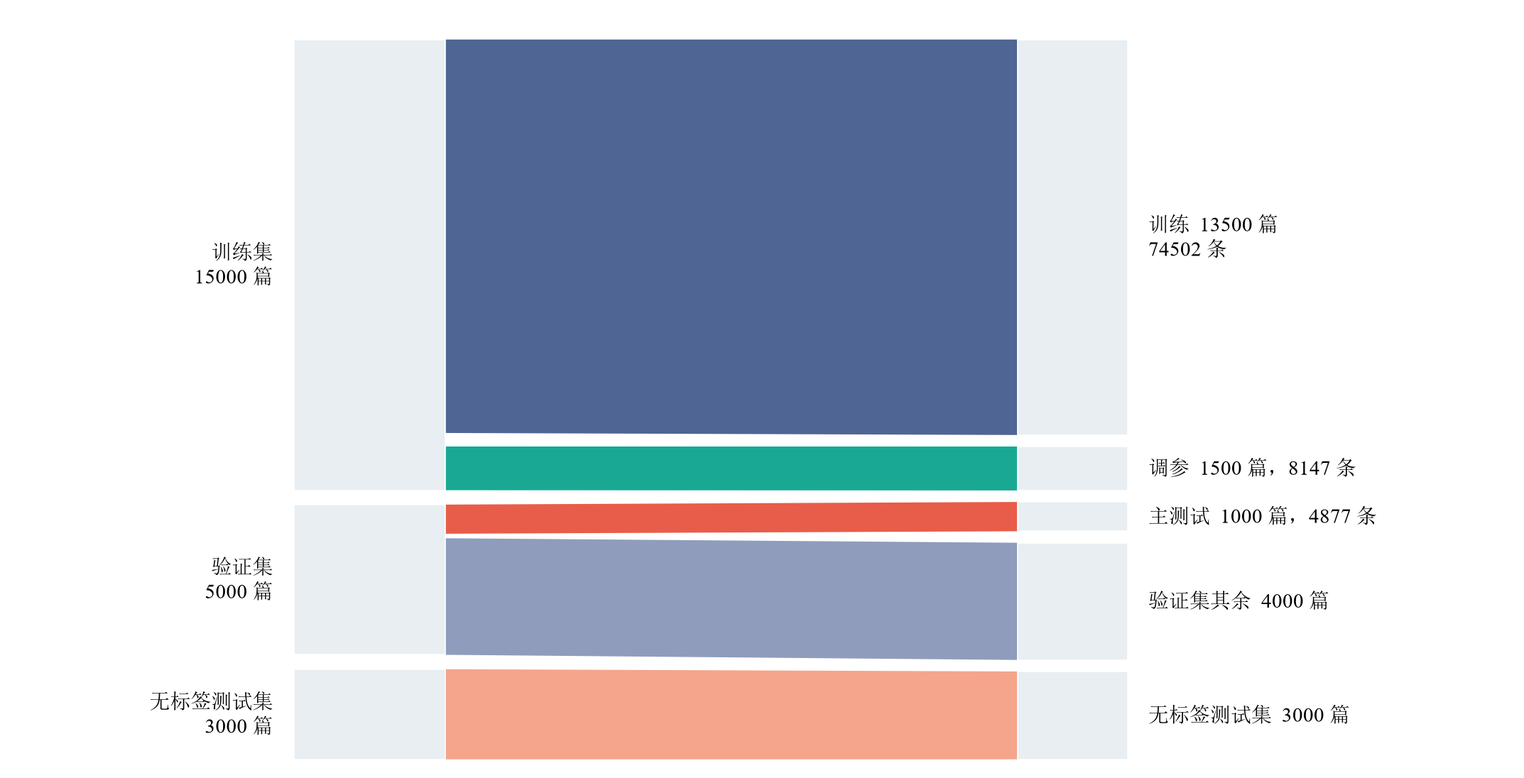
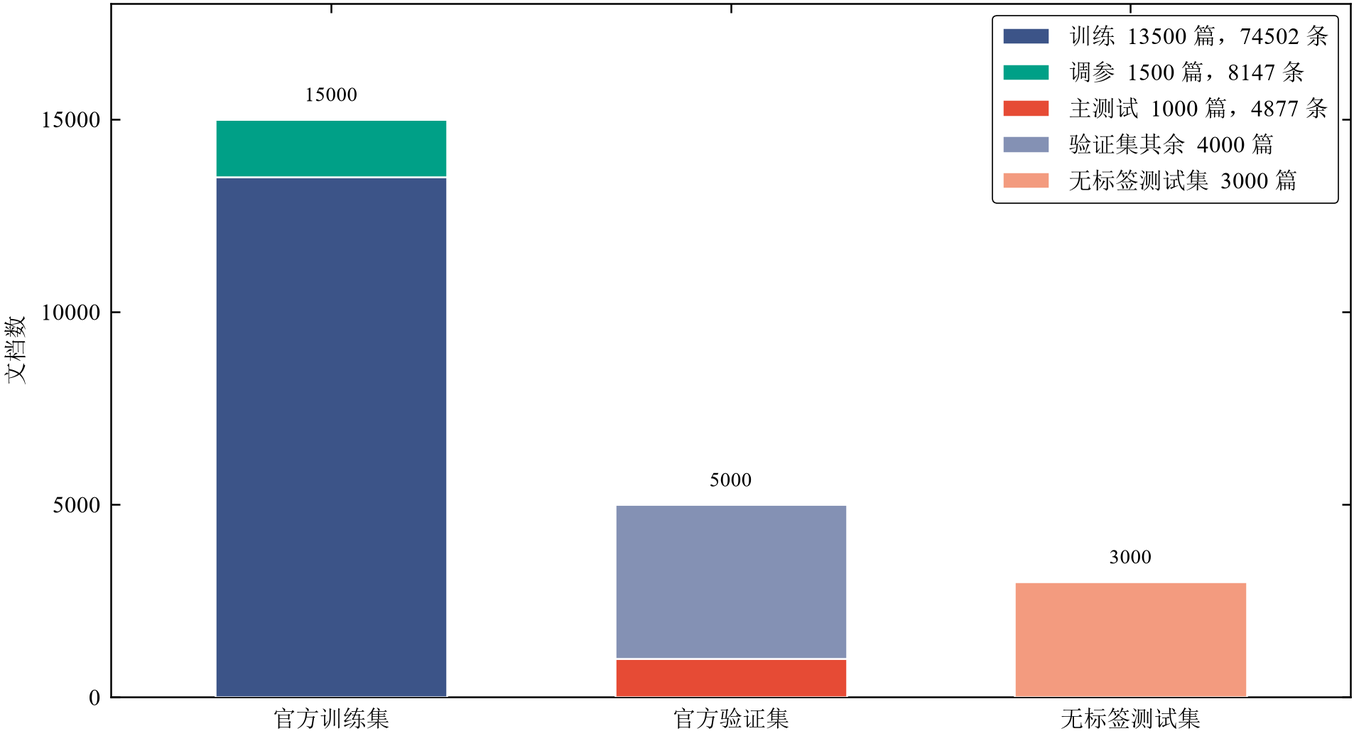
补全报告中的方案对比和错误归因，并把两张插图改成柱状图。

diff --git a/scripts/plot_report_figures.py b/scripts/plot_report_figures.py
@@ -274,54 +274,10 @@ def add_log_colorbar(fig, image, ax) -> None:
     colorbar.set_label("计数", fontsize=8)
 
 
-def ribbon(ax, x0: float, band0: tuple[float, float], x1: float, band1: tuple[float, float], color: str) -> None:
-    y0b, y0t = band0
-    y1b, y1t = band1
-    step = np.linspace(0, 1, 60)
-    smooth = step * step * (3 - 2 * step)
-    xs = x0 + (x1 - x0) * smooth
-    top = y0t + (y1t - y0t) * smooth
-    bottom = y0b + (y1b - y0b) * smooth
-    ax.fill(
-        np.concatenate([xs, xs[::-1]]),
-        np.concatenate([top, bottom[::-1]]),
-        color=color,
-        alpha=0.9,
-        linewidth=0,
-        zorder=2,
-    )
-
-
-def stack_bands(sizes: list[int], top: float = 1.0, gap: float = 0.02) -> list[tuple[float, float]]:
-    usable = top - gap * (len(sizes) - 1)
-    scale = usable / sum(sizes)
-    cursor = top
-    bands = []
-    for size in sizes:
-        height = size * scale
-        bands.append((cursor - height, cursor))
-        cursor -= height + gap
-    return bands
-
-
-def split_band(band: tuple[float, float], sizes: list[int]) -> list[tuple[float, float]]:
-    bottom, top = band
-    if len(sizes) == 1:
-        return [band]
-    gap = (top - bottom) * 0.03 / (len(sizes) - 1)
-    usable = (top - bottom) - gap * (len(sizes) - 1)
-    cursor = top
-    parts = []
-    for size in sizes:
-        height = usable * size / sum(sizes)
-        parts.append((cursor - height, cursor))
-        cursor -= height + gap
-    return parts
-
-
 def fig_split_scale(summary: dict, profile: dict) -> None:
-    fig = new_figure((7.2, 3.7))
+    fig = new_figure((6.4, 3.5))
     ax = fig.subplots()
+    style_ax(ax)
     official = summary["files"]
     train_docs = official["CMeEE-V2_train.json"]["docs"]
     dev_docs = official["CMeEE-V2_dev.json"]["docs"]
@@ -329,51 +285,40 @@ def fig_split_scale(summary: dict, profile: dict) -> None:
     project_docs = {key: profile["sizes"][f"{key}_indices"] for key in ("train", "tune", "test")}
     project_entities = {key: profile["splits"][key]["entities"] for key in ("train", "tune", "test")}
     dev_rest = dev_docs - project_docs["test"]
-    left = stack_bands([train_docs, dev_docs, test_docs])
-    right = stack_bands(
-        [project_docs["train"], project_docs["tune"], project_docs["test"], dev_rest, test_docs],
-        gap=0.016,
-    )
-    left_parts = [
-        split_band(left[0], [project_docs["train"], project_docs["tune"]]),
-        split_band(left[1], [project_docs["test"], dev_rest]),
-        split_band(left[2], [test_docs]),
+    segments = [
+        ("训练", [project_docs["train"], 0, 0], NAVY, project_entities["train"]),
+        ("调参", [project_docs["tune"], 0, 0], TEAL, project_entities["tune"]),
+        ("主测试", [0, project_docs["test"], 0], RED, project_entities["test"]),
+        ("验证集其余", [0, dev_rest, 0], STEEL, None),
+        ("无标签测试集", [0, 0, test_docs], PEACH, None),
     ]
-    flows = [
-        (left_parts[0][0], right[0], NAVY),
-        (left_parts[0][1], right[1], TEAL),
-        (left_parts[1][0], right[2], RED),
-        (left_parts[1][1], right[3], STEEL),
-        (left_parts[2][0], right[4], PEACH),
-    ]
-    x0, x1 = 0.22, 1.05
-    for source, target, color in flows:
-        ribbon(ax, x0, source, x1, target, color)
-    for band in left + right:
-        ax.add_patch(
-            plt.Rectangle((0.0, band[0]), 0.22, band[1] - band[0], facecolor="#E8EEF2", edgecolor="white", lw=0.4, zorder=3)
-            if band in left
-            else plt.Rectangle((1.05, band[0]), 0.16, band[1] - band[0], facecolor="#E8EEF2", edgecolor="white", lw=0.4, zorder=3)
+    xs = np.arange(3)
+    bottoms = np.zeros(3)
+    for name, heights, color, entities in segments:
+        label = f"{name}  {fmt_int(sum(heights))} 篇"
+        if entities is not None:
+            label += f"，{fmt_int(entities)} 条"
+        ax.bar(
+            xs,
+            heights,
+            bottom=bottoms,
+            width=0.58,
+            color=color,
+            edgecolor="white",
+            linewidth=0.6,
+            label=label,
+            zorder=3,
         )
-    left_labels = [
-        (left[0], f"训练集\n{train_docs} 篇"),
-        (left[1], f"验证集\n{dev_docs} 篇"),
-        (left[2], f"无标签测试集\n{test_docs} 篇"),
-    ]
-    right_labels = [
-        (right[0], f"训练  {project_docs['train']} 篇\n{project_entities['train']} 条"),
-        (right[1], f"调参  {project_docs['tune']} 篇，{project_entities['tune']} 条"),
-        (right[2], f"主测试  {project_docs['test']} 篇，{project_entities['test']} 条"),
-        (right[3], f"验证集其余  {dev_rest} 篇"),
-        (right[4], f"无标签测试集  {test_docs} 篇"),
-    ]
-    for band, text in left_labels:
-        ax.text(-0.03, (band[0] + band[1]) / 2, text, ha="right", va="center", fontsize=7, color=BLACK)
-    for band, text in right_labels:
-        ax.text(1.24, (band[0] + band[1]) / 2, text, ha="left", va="center", fontsize=7, color=BLACK)
-    ax.set_xlim(-0.42, 1.78)
-    ax.set_ylim(-0.02, 1.05)
-    ax.axis("off")
+        bottoms = bottoms + np.array(heights, dtype=float)
+    for x, total in zip(xs, (train_docs, dev_docs, test_docs)):
+        ax.text(x, total + 350, fmt_int(total), ha="center", va="bottom", fontsize=7, color=BLACK)
+    ax.set_xticks(xs, ["官方训练集", "官方验证集", "无标签测试集"])
+    ax.set_ylabel("文档数")
+    ax.set_xlim(-0.55, 2.55)
+    ax.set_ylim(0, 18000)
+    ax.yaxis.set_major_locator(plt.MultipleLocator(5000))
+    legend = ax.legend(loc="upper right", frameon=True)
+    style_legend(legend)
     save(fig, "01_split_scale.png")
 
 
@@ -438,7 +383,7 @@ def fig_span_mismatch(log_text: str) -> None:
             "test_token_span_mismatch",
         ],
     )
-    fig = new_figure((3.6, 2.55))
+    fig = new_figure((3.8, 2.7))
     ax = fig.subplots()
     style_ax(ax)
     labels = ["训练", "调参", "主测试"]
@@ -447,15 +392,22 @@ def fig_span_mismatch(log_text: str) -> None:
         keys["tune_token_span_mismatch"],
         keys["test_token_span_mismatch"],
     ]
-    y = np.arange(len(labels))
-    ax.hlines(y, 0, values, color=CYAN, linewidth=1.4, zorder=2)
-    ax.scatter(values, y, s=36, color=NAVY, zorder=3)
-    for yi, value in zip(y, values):
-        ax.text(value + max(values) * 0.03, yi, fmt_int(value), va="center", ha="left", fontsize=7)
-    ax.set_yticks(y, labels)
-    ax.set_xlim(0, max(values) * 1.28)
-    ax.set_xlabel("未对齐实体数")
-    ax.invert_yaxis()
+    colors = [NAVY, TEAL, RED]
+    xs = np.arange(len(labels))
+    bars = ax.bar(xs, values, width=0.55, color=colors, edgecolor="white", linewidth=0.6, zorder=3)
+    for bar, value in zip(bars, values):
+        ax.text(
+            bar.get_x() + bar.get_width() / 2,
+            value + max(values) * 0.03,
+            fmt_int(value),
+            ha="center",
+            va="bottom",
+            fontsize=7,
+            color=BLACK,
+        )
+    ax.set_xticks(xs, labels)
+    ax.set_ylabel("未对齐实体数")
+    ax.set_ylim(0, max(values) * 1.22)
     save(fig, "04_span_mismatch.png")
 
 

diff --git a/报告.md b/报告.md
@@ -22,7 +22,7 @@
 
 ![官方文件与项目划分的规模](figures/01_split_scale.png)
 
-**图 1.** 官方文件到项目划分的文档流向。色带宽度按文档数绘制。官方训练集流入项目训练与调参；官方验证集中 1000 篇为主测试，其余 4000 篇不进入主测试；无标签测试集单独保留。项目三个划分旁的实体数来自 `outputs/metrics/split_profile.json` 的 `splits.*.entities`。文档数来自 `outputs/data_validation_summary.json` 的 `files.*.docs` 与 `split_profile.json` 的 `sizes`。
+**图 1.** 官方文件的文档构成。每根柱是一个官方文件，段的高度为文档数，柱顶为该文件总篇数。官方训练集分为项目训练与调参；官方验证集中 1000 篇为主测试，其余 4000 篇不进入主测试；无标签测试集单独保留。训练、调参和主测试的实体数写在图例中，来自 `outputs/metrics/split_profile.json` 的 `splits.*.entities`。文档数来自 `outputs/data_validation_summary.json` 的 `files.*.docs` 与 `split_profile.json` 的 `sizes`。
 
 ![三个划分的九类实体数量](figures/02_type_counts.png)
 
@@ -36,15 +36,17 @@
 
 ## ② 相关工作与方案选型
 
+本项目选题为任务书方向 **B（信息抽取 / 序列标注）**，不是方向 A（领域 RAG 问答）或方向 C（提示 vs LoRA）。选型表回应模板要求的「为什么不用 RAG / 为什么不用大模型 LoRA」：不用 RAG，是因为待抽实体已在当前句子中，外部检索不直接决定 `start_idx`/`end_idx`/`type`；不用大模型 LoRA，是因为监督微调已由 BERT-BIO 承担，大模型侧用冻结权重的提示做对照，优先跑完基线—监督—提示—评测链。文献上，CMeEE 类中文医疗 NER 常见嵌套，标准 BIO 常保留最长跨度或丢弃冲突实体；中文医疗 NER 上指令微调通常优于少样本提示，但成本高于提示。
+
 | 备选方案 | 优点 | 缺点 | 本项目是否采用 | 理由 |
 | --- | --- | --- | --- | --- |
-| 词典全匹配与最长匹配 | 待人填写 | 待人填写 | 已实现，见 `outputs/metrics/dictionary_baseline.csv` | 待人填写 |
-| BERT-BIO 监督微调 | 待人填写 | 待人填写 | 已实现，见 `outputs/metrics/bert_bio.csv` | 待人填写 |
-| Qwen2.5-3B 提示 | 待人填写 | 待人填写 | 已实现，见 `outputs/metrics/qwen_3b.csv` 与 `outputs/metrics/qwen_3b_one.csv` | 待人填写 |
-| RAG | 待人填写 | 待人填写 | 未实现 | 待人填写 |
-| LoRA | 待人填写 | 待人填写 | 未实现 | 待人填写 |
+| 词典全匹配与最长匹配 | 无需训练、实现简单、结果可复现；覆盖训练集已见表面词；全匹配偏召回，最长匹配可压低重叠切分带来的假正例 | 未见词与写法变体无法命中；同表多义靠频次/字典序启发式；几乎不利用上下文，嵌套与消歧弱 | 已实现，见 `outputs/metrics/dictionary_baseline.csv` | 方向 B 要求非大模型基线。只用 `data/processed/train.json` 建词典，在同一主测试上给出严格实体级下界（最长匹配 Micro-F1 0.392433） |
+| BERT-BIO 监督微调 | 有标签监督，可学边界与九类类型；对齐课程序列标注与预训练微调；主测试实体级明显高于词典（0.634777 vs 0.392433） | 每位置单标签，嵌套无法完整保留（主测试 BIO 舍弃 839/4877）；子词切分有跨度未对齐；token 级 F1（0.776996）高于严格实体级，口径不可混用 | 已实现，见 `outputs/metrics/bert_bio.csv` | 方向 B 的主监督方案，对应「逐位置分类」与实体级评测。配置见 `configs/bert_bio.yaml`（`bert-base-chinese`） |
+| Qwen2.5-3B 提示 | 不更新权重即可换示例数；对应提示学习；可记录延迟与输入/输出 token，便于成本对照 | 生成式输出需解析，存在 parse_failures 与 surface_mismatches；主测试实体级 F1 约 0.01–0.02，远低于 BERT；本地 4bit 推理单样本延迟约 6–11 秒 | 已实现，见 `outputs/metrics/qwen_3b.csv` 与 `outputs/metrics/qwen_3b_one.csv` | 在同一主测试上对照「监督微调 vs 提示」。调参集上比较 0/1/3 条示例，`selected_shots=1` 后再评主测试 |
+| RAG | 可检索外部知识或相似句，利于低上下文消歧、问答溯源；检索增强 NER 在部分共享任务上有用 | 「召回是上限」：检索噪声会拖累抽取；IE 上检索内容还需标签兼容，否则易误导边界/类型；本任务证据主要在输入句内，外挂语料不直接解决严格跨度匹配 | 未实现 | 属方向 A。方案已定：输入已含待抽信息，检索不能直接解决边界与类别。仓库无检索与引用校验脚本 |
+| LoRA | 低秩适配、少改基座参数；算力低于全参微调；中文医疗 NER 上微调/适配器常明显优于 in-context 提示 | 仍需训练管线、显存与超参（秩等）；与方向 C 重叠；截止前加做会挤占必做的错误分析与报告 | 未实现 | 非必做。领域适配由 BERT-BIO 完成；Qwen 侧保持冻结权重提示，以隔离「提示条数」因素。仓库无 LoRA 训练脚本 |
 
-仓库里没有 RAG 或 LoRA 的训练与检索脚本。BERT-BIO 使用 `configs/bert_bio.yaml` 的 `model_path: D:/models/bert-base-chinese`。Qwen 使用 `configs/qwen_3b.yaml` 的提示模板，不更新模型权重。
+仓库里没有 RAG 或 LoRA 的训练与检索脚本。BERT-BIO 使用 `configs/bert_bio.yaml` 的 `model_path: D:/models/bert-base-chinese`。Qwen 使用 `configs/qwen_3b.yaml` 的提示模板，不更新模型权重。数字出处：词典与 BERT 见上表 CSV；Qwen 分数与成本见 `qwen_3b.csv`、`qwen_3b_one.csv` 及对应 `*_cost.json`；BIO 舍弃见 `outputs/metrics/bio_dropped_entities.json`；入选条数见 `outputs/metrics/qwen_shot_count_selection.json`。
 
 ## ③ 系统设计
 
@@ -75,7 +77,7 @@ BERT 配置：`configs/bert_bio.yaml` 中 `learning_rate` 为 `3.0e-5`，`batch_
 
 ![三个划分的子词跨度未对齐计数](figures/04_span_mismatch.png)
 
-**图 5.** 子词跨度未对齐的实体数，用圆点图表示。计数来自 `outputs/logs/train_bio.log` 的 `train_token_span_mismatch`、`tune_token_span_mismatch`、`test_token_span_mismatch`。
+**图 5.** 子词跨度未对齐的实体数。柱顶为原始计数。计数来自 `outputs/logs/train_bio.log` 的 `train_token_span_mismatch`、`tune_token_span_mismatch`、`test_token_span_mismatch`。
 
 Qwen 配置在 `configs/qwen_3b.yaml`：`temperature` 为 0，`do_sample` 为 false，`max_new_tokens` 为 1536。环境是 `medical_ner`，Python 3.11.17，解释器 `D:/programdata/anaconda_envs/envs/medical_ner/python.exe`。Qwen 为本地 4bit 推理。
 
@@ -171,13 +173,13 @@ Qwen 配置在 `configs/qwen_3b.yaml`：`temperature` 为 0，`do_sample` 为 fa
 
 ## ⑥ 错误分析与局限
 
-三条样例由 `scripts/export_error_examples.py` 写入 `outputs/errors/examples.json`。每类取该判定下最小的 `source_index`。归因和改进留空。
+三条样例由 `scripts/export_error_examples.py` 写入 `outputs/errors/examples.json`。每类取该判定下最小的 `source_index`。JSON 里的 `attribution` 与 `improvement` 仍是空字符串。下表和各条下面的段落是根据样例、项目代码和文献写的归因与改进，供确认。
 
 | # | 失败样例（输入 → 输出） | 归因（数据 / 模型 / 提示 / 检索 / 评测口径） | 可能的改进 |
 | --- | --- | --- | --- |
-| 1 | 见下方「解析失败」。`method=qwen_3b_one`，`source_index=95` | 待人填写 | 待人填写 |
-| 2 | 见下方「边界错误」。`method=bert_bio`，`source_index=0` | 待人填写 | 待人填写 |
-| 3 | 见下方「类型错误」。`method=bert_bio`，`source_index=22` | 待人填写 | 待人填写 |
+| 1 | 见下方「解析失败」。`method=qwen_3b_one`，`source_index=95` | 提示 / 模型。生成在 JSON 未闭合处被 `max_new_tokens` 截断，解析器将该篇 `pred` 记为空。重复块中的字符下标已超出句长。 | 只生成表面和类型，下标用原文精确匹配回填；提高 `repetition_penalty`，并在 JSON 闭合后停止。 |
+| 2 | 见下方「边界错误」。`method=bert_bio`，`source_index=0` | 模型把相邻的「儿童」划进 `bod` 与 `sym`。数据经 BIO 压平后，与长实体重叠的内层 `bod` 不进入训练标签。严格三元组把边界不一致计为未命中。 | 用可重叠的跨度解码保留内层实体；患者指称不并入身体或症状。 |
+| 3 | 见下方「类型错误」。`method=bert_bio`，`source_index=22` | 模型 / 标注口径。「心脏损害」的跨度与金标相同，金标为 `sym`，预测为 `dis`。规范里器官损伤可标疾病，临床表现内部又可嵌套身体。 | 在标签说明中写清这两类的区分，并改用能同时输出外层表现和内层身体的解码。 |
 
 ### 解析失败
 
@@ -198,6 +200,10 @@ Qwen 配置在 `configs/qwen_3b.yaml`：`temperature` 为 0，`do_sample` 为 fa
 | 32 | 45 | sym | 胸部X线片改变明显且进展快 |
 | 32 | 37 | pro | 胸部X线片 |
 | 49 | 55 | dis | 其他脏器损害 |
+
+**归因。** `configs/qwen_3b.yaml` 中 `max_new_tokens` 为 1536，`repetition_penalty` 为 1.0，`temperature` 为 0。该条 `raw_output` 以 `{"entities":[` 开头，末尾停在 `start_idx":393,"end_idx":395},{"`，花括号未闭合。本句长度为 71。`src/models/qwen_prompt.py` 的 `parse_model_output` 只有在读到完整 JSON 对象且含 `entities` 列表时才令 `parse_ok` 为 true，否则 `pred` 为 `[]`，`discarded` 也为 `[]`。生成内容把「高热」「咳重」「气促」「胸部X线片改变明显且进展快」等表面按递增下标反复写出，下标已大于句长。主测试 `qwen_3b_one` 的 `parse_failures` 为 17，`surface_mismatches` 为 2694，见 `outputs/metrics/qwen_3b_one_cost.json`。Semin、Dušek 与 Kasner 将生成式跨度标注分为整段标注、数字下标和表面匹配，并说明解码器没有与输入字符对齐的机制，数字下标容易错位（arXiv:2601.16946）。本项目提示要求同时写出表面和 `start_idx`/`end_idx`，属于数字下标。
+
+**可能的改进。** 提示只要求实体表面和类型，下标由 `text[start:end]` 与表面一致的匹配回填。生成侧将 `repetition_penalty` 调到大于 1，或在 JSON 对象闭合后停止，并把未闭合输出标成截断。这些改动本报告没有重跑。
 
 ### 边界错误
 
@@ -225,6 +231,10 @@ Qwen 配置在 `configs/qwen_3b.yaml`：`temperature` 为 0，`do_sample` 为 fa
 | 28 | 34 | sym | 儿童细胞下降 |
 
 `token_pred` 第一个窗口：`O, B-bod, I-bod, I-bod, I-bod, I-bod, I-bod, I-bod, O, O, O, O, O, O, O, B-dis, I-dis, I-dis, O, O, O, B-sym, I-sym, I-sym, I-sym, I-sym, I-sym, O, O, O, O, O, O, O, O, O, O, O, O, O`。
+
+**归因。** 金标 `bod` 为 `[3,12)`「SARST细胞亚群」，预测为 `[1,12)`「儿童SARST细胞亚群」；金标 `sym` 为 `[30,34)`「细胞下降」，预测为 `[28,34)`「儿童细胞下降」。两处都把左侧相邻的「儿童」划进实体。「成人SARS」`[19,25)` 与金标一致。金标另有 `[30,32)` `bod`「细胞」，与「细胞下降」重叠。`src/models/bio.py` 的 `flatten_entities` 按长度降序贪心保留互不重叠的实体，较短的内层被舍弃。主测试 `outputs/metrics/bio_dropped_entities.json` 的 `total` 为 839，其中 `bod` 为 657。CHIP 2020 的任务说明规定：临床表现内部允许嵌套其他八类，其余类别按最大单位标注。张欢等的标注规范同样把嵌套放在临床表现内部，并把程度、频率一类修饰并入临床表现（CCL 2020）。BIO 每个位置只有一个标签，训练时内层「细胞」不在标签中。严格三元组要求 `start_idx`、`end_idx`、`type` 全同，边界外扩和未输出的内层都会进入假正例或假负例。Li 等写明 CMeEE-V2 中约 32% 的实体处于嵌套结构，逐位置 BIO 留不下内层实体。本条的外扩来自模型边界，内层缺失来自压平。
+
+**可能的改进。** 解码改为按跨度打分，使重叠的 `bod` 与 `sym` 可以同时保留。文献中的多头 biaffine 与 GlobalPointer 属于这一类，本仓库没有这些实验。边界上把「儿童」这类患者指称与身体、症状分开。
 
 ### 类型错误
 
@@ -256,7 +266,13 @@ Qwen 配置在 `configs/qwen_3b.yaml`：`temperature` 为 0，`do_sample` 为 fa
 
 `token_pred` 第一个窗口：`B-dis, O, O, O, O, O, O, O, B-dis, I-dis, I-dis, I-dis, O, O, O, B-dis, I-dis, I-dis, I-dis, O, O, O, O, B-pro, I-pro, I-pro, I-pro, I-pro, I-pro, I-pro, I-pro, O`。
 
-**局限。** 词典和 BERT 没有延迟与 token 成本文件，主测试表对应格子为空。Qwen 为本地推理，两份日志写 `api_unit_price=none`。官方 `CMeEE-V2_test.json` 无标签，不参与评分。其余局限：待人填写。
+**归因。** `[11,15)` 与 `[18,22)` 的表面都是「心脏损害」。金标类型为 `sym`，并在 `[11,13)`、`[18,20)` 嵌套 `bod`「心脏」。预测把两处都标成 `dis`，对应 `token_pred` 为 `B-dis` 加三个 `I-dis`。`SARS` 与「床边动态心电监护」的类型和边界与金标一致。张欢等将「器官或细胞受损」列入疾病，又规定临床表现内部可以嵌套身体（CCL 2020）。「损害」因此落在两类的交界上。解析失败那条（`source_index=95`）的金标把「其他脏器损害」标为 `dis`，本条把「心脏损害」标为 `sym`。压平后训练标签只保留较长的外层；模型仍把外层预测成 `dis`，BIO 也不会再为内层「心脏」单给一个标签。
+
+**可能的改进。** 在 BERT 的类别说明和 Qwen 提示中写明：可独立成立的器官损伤用 `dis`；作为表现并且内部还有身体部位时，外层用 `sym`、内层用 `bod`，并给出对照句。解码改为可重叠跨度后，内层「心脏」才有单独的输出位置。本步没有按修改后的提示重新推理。
+
+**局限。** 词典和 BERT 没有延迟与 token 成本文件，主测试表对应格子为空。Qwen 为本地推理，两份日志写 `api_unit_price=none`。官方 `CMeEE-V2_test.json` 无标签，不参与评分。主测试 BIO 舍弃 839/4877 个金标实体，其中 `bod` 为 657，扁平标签覆盖不了规范允许的嵌套。严格 Micro-F1 把边界部分重合计为一对假正例和假负例。`qwen_3b_one` 在主测试上有 17 次解析失败，失败文档的预测为空；提示要求模型自报字符下标，同次运行的 `surface_mismatches` 为 2694。项目使用 `bert-base-chinese` 与冻结的 Qwen2.5-3B 4bit 提示，没有医疗领域继续预训练、约束 JSON 解码或嵌套解码，也没有 bootstrap。上面三条改进都未重跑。
+
+本节约用的外部资料：张欢、宗源、常宝宝、穗志方、昝红英、张坤丽，《面向医学文本处理的医学实体标注规范》，CCL 2020；CHIP 2020 中文医学文本命名实体识别任务说明（http://cips-chip.org.cn/2020/eval1）；Li 等，Addressing Span Imbalance and Semantic Complexity in Nested Medical Named Entity Recognition；Semin、Dušek、Kasner，Strategies for Span Labeling with Large Language Models，arXiv:2601.16946。
 
 ## ⑦ 工程与伦理
 

diff --git a/过程文档/录屏演示方案.md b/过程文档/录屏演示方案.md
@@ -1,0 +1,106 @@
+# 录屏演示方案
+
+**状态：** 待确认，未实现  
+**日期：** 2026-10-19  
+**对应交付：** 课程任务书「演示录屏」：真实跑一遍系统，至少展示一个难例，画面中可见学号与姓名；提交时视频不超过 2 分钟，录屏文件不进仓库、不进 zip，只填网盘链接。
+
+本方案先满足「真实跑系统 + 难例可视化」。2 分钟剪辑放到实现并彩排之后。学号和姓名不写进代码，录制时在页面侧栏填写。不代录屏。
+
+现有 120 秒分镜仍在 [录屏分镜.md](录屏分镜.md)。本方案确认并实现前，不替换那份分镜。
+
+## 页面
+
+一个 Streamlit 页面 `app.py`。启动命令：
+
+```text
+D:/programdata/anaconda_envs/envs/medical_ner/python.exe -m streamlit run app.py
+```
+
+侧栏始终显示学号和姓名，录屏时留在画面里。页面只做实体抽取，不做诊断、治疗或用药建议。
+
+四块内容：
+
+1. **片头。** 题目「中文医疗实体抽取」。
+2. **现场抽取。** 文本框默认填入 `outputs/errors/examples.json` 里「边界错误」那条的 `text`。方法可选：词典最长匹配、BERT-BIO、Qwen 零样本、Qwen 单样本、Qwen 三样本。点击「抽取」后走现有代码路径。画面出现加载或推理进度，以及本次延迟。
+3. **难例对照。** 原文按实体类型着色。并排列出本次 `pred` 和该条的 `gold`。文本仍是默认难例时，标出类别「边界错误」，并标出相交但起止不同的实体对。区间按左闭右开。
+4. **已有评测。** 只读展示主测试 CSV 的 Precision、Recall、Micro-F1。文件是 `outputs/metrics/dictionary_baseline.csv`、`outputs/metrics/bert_bio.csv`、`outputs/metrics/qwen_3b.csv`、`outputs/metrics/qwen_3b_one.csv`。页面不写哪一个更好。
+
+
+
+## 方法
+
+
+| 方法               | 现场行为                          | 配置或代码                                                      |
+| ---------------- | ----------------------------- | ---------------------------------------------------------- |
+| 词典最长匹配           | 不加载模型，对当前文本当场匹配               | `src/baselines/dictionary_ner.py`                          |
+| BERT-BIO         | 第一次点击时加载已有 checkpoint，之后留在会话里 | `configs/bert_bio.yaml`，`scripts/train_bert_bio.py` 中的预测路径 |
+| Qwen 零样本、单样本、三样本 | 第一次点击时按 4bit NF4 加载，之后留在会话里   | `configs/qwen_3b.yaml`，`src/models/qwen_prompt.py`         |
+
+
+单条已记录延迟（模型已在显存中之后）：Qwen 零样本约 6.4 秒，单样本约 10.7 秒，三样本约 10.5 秒。出处是 `outputs/metrics/qwen_3b_cost.json` 与 `outputs/metrics/qwen_3b_one_cost.json` 的 `mean_latency_sec`。冷启动加载另计，不包含在上述数字里。BERT 单条延迟本仓库没有成本文件。
+
+## 约束
+
+- 抽取结果只显示在页面上，不回写 `outputs/predictions/`，不改 `split_manifest.json`，不改指标文件。
+- 加载失败就停止，不换精度，不缩小文本。
+- 难例默认锁定「边界错误」那条，不虚构错误，不手工修改预测。
+- 不把模型权重、API Key、录屏文件打进提交包。
+
+
+
+## 录制顺序
+
+1. 打开页面，侧栏填入学号和姓名。
+2. 对默认难例原文选择一种方法，点击「抽取」，等到结果和高亮出现。需要对照时再换方法各抽一次。
+3. 展示 gold 与 pred 的边界差异。
+4. 切到已有评测表。
+
+提交前把成片剪到不超过 2 分钟。画面里仍须看见学号、姓名、一次真实抽取和这个难例。
+
+## 演示操作步骤
+
+页面实现前不能按本节操作。实现后从仓库根目录开始。
+
+### 录前
+
+1. 关掉通知和无关窗口。浏览器只留演示页，字体放大到录屏里能看清实体高亮。
+2. 确认难例文件在：`outputs/errors/examples.json`，其中有 `category` 为「边界错误」的一条。不要改这条的 `text`、`gold`、`pred`。
+3. 用 `Win + G` 打开 Xbox Game Bar，先不要按录制。
+
+### 启动
+
+在仓库根目录执行：
+
+```text
+cd /d D:\programdata\nlp_project
+D:/programdata/anaconda_envs/envs/medical_ner/python.exe -m streamlit run app.py
+```
+
+浏览器打开页面后，看页眉是否为「中文医疗实体抽取」。侧栏填入学号和姓名，填完不要再挪开，整段录屏都要看得见。
+
+文本框应已是「边界错误」那条原文。不要改字，不要粘贴别的句子。
+
+### 建议先彩排再录
+
+彩排时按下面顺序各点一次，确认能出结果。正式录屏可以只保留词典、BERT 和一种 Qwen，避免冷启动占满画面。
+
+1. 方法选「词典最长匹配」，点击「抽取」。这一步不加载模型，应很快出现高亮、`pred` 和本次延迟。
+2. 方法改成「BERT-BIO」，再点「抽取」。第一次会加载 checkpoint，等进度结束。不要中途刷新页面，否则会话里的模型会丢掉。
+3. 方法改成「Qwen 零样本」（或单样本、三样本中的一种），再点「抽取」。第一次按 4bit NF4 加载。加载失败就停，不要改精度，也不要换一段更短的文本。
+4. 看难例对照：原文着色、`gold` 与本次 `pred` 并排，并标出「边界错误」和相交但起止不同的实体对。
+5. 滚到已有评测表，确认能看到 Precision、Recall、Micro-F1。不要在口播里说哪个方法更好。
+
+### 正式录屏
+
+1. 彩排里已经加载过的页面不要关。模型还在会话里时再按 `Win + Alt + R` 开始录。
+2. 镜头先停在页眉和侧栏，让学号、姓名、题目同时出现。
+3. 对默认原文点一次「抽取」。优先点词典或已经加载好的 BERT，让画面出现进度、结果高亮和延迟。
+4. 鼠标指到 gold 与 pred 不一致的那一对实体，停几秒。
+5. 若还要展示第二种方法，再选 BERT 或一种 Qwen，点「抽取」，等到新的高亮出现。
+6. 滚到评测表，让四份 CSV 对应的指标行进入画面，然后停止录制。
+
+### 录后
+
+1. 成片剪到不超过 2 分钟。剪完仍须看见学号、姓名、一次真实抽取和这个难例。
+2. 视频上传网盘。链接填进报告封面的「演示录屏」，并填进金山文档收集表。
+3. 视频不要放进仓库，也不要打进提交 zip。

diff --git a/过程文档/录屏分镜.md b/过程文档/录屏分镜.md
@@ -1,5 +1,7 @@
 # 录屏分镜
 
+以下是第 5 步已写入的 120 秒分镜。词典、BERT、Qwen 现场抽取的可视化方案另见 [录屏演示方案.md](录屏演示方案.md)，状态为待确认、未实现。确认前不替换本表。
+
 **总时长：** 120 秒  
 **学号：** ______  
 **姓名：** ______
